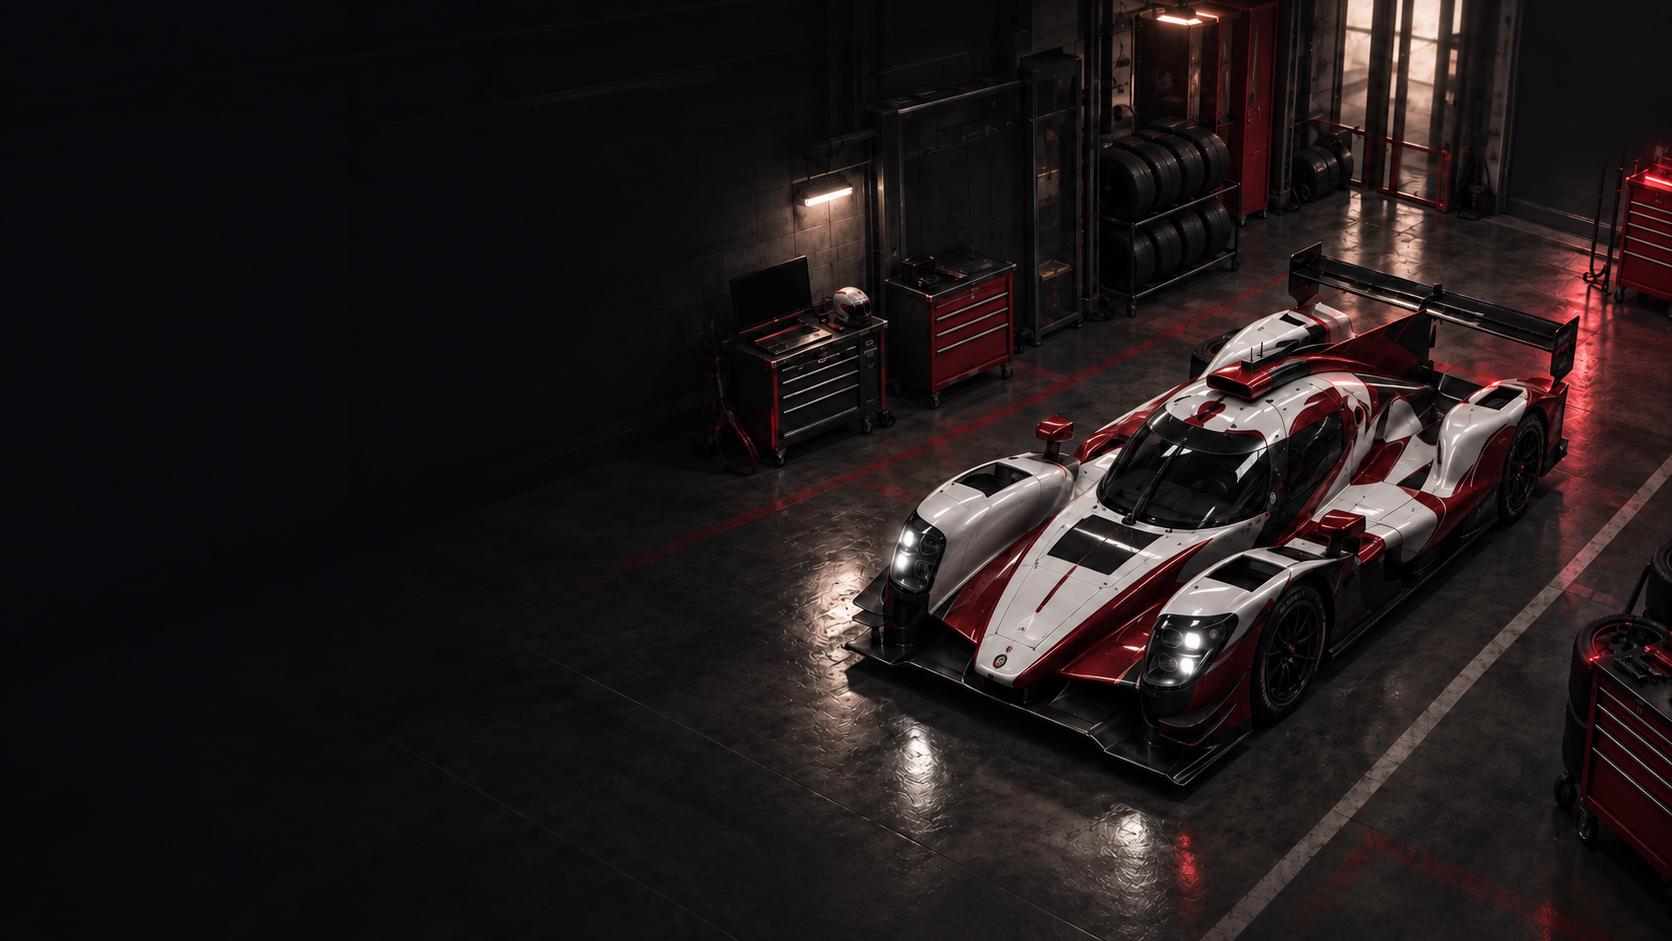
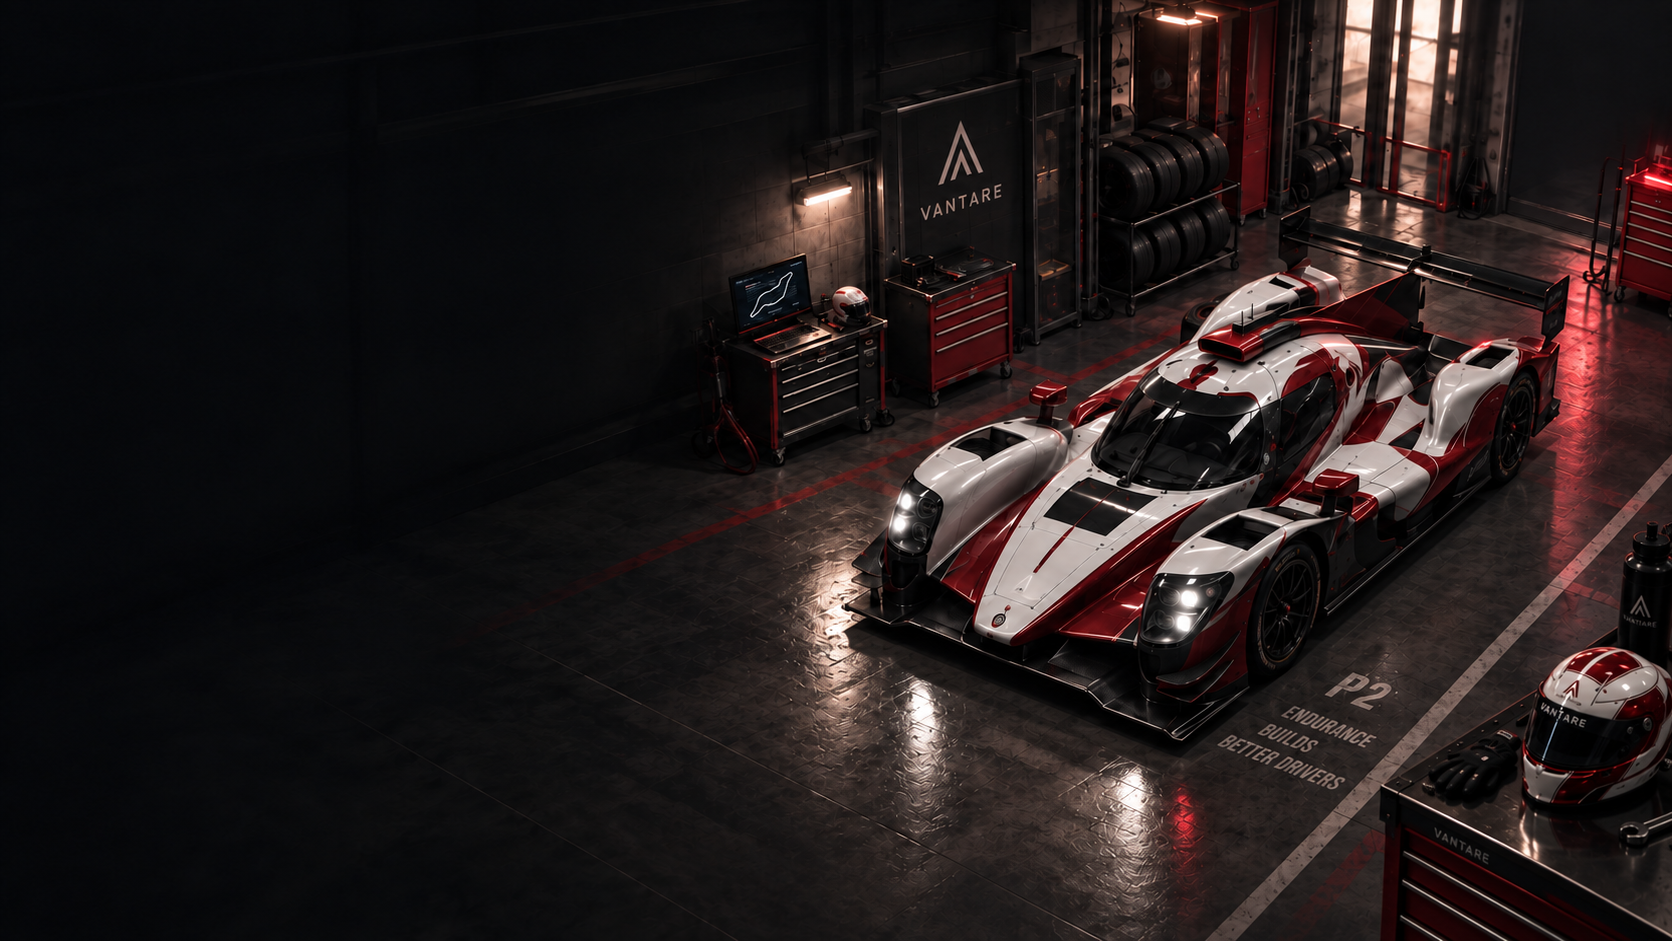
style(strategy): align recorded frame with final A4 artwork (ISA-1093)

diff --git a/vantare-v2/frontend/src/hub/strategy-orbit/strategy-recorded-frame.css b/vantare-v2/frontend/src/hub/strategy-orbit/strategy-recorded-frame.css
@@ -1,4 +1,14 @@
 /* A4 approved composition; all content and state remain React-owned. */
+.orbit-shell:has(.orbit-strategy--recorded) {
+  --orbit-rail-w: 72px;
+  --orbit-column-w: 256px;
+  --orbit-shell-column: 256px;
+}
+.orbit-shell[data-column='closed']:has(.orbit-strategy--recorded) { --orbit-shell-column: 0px; }
+.orbit-shell:has(.orbit-strategy--recorded) .orbit-column__head { min-height: 60px; height: 60px; }
+.orbit-shell:has(.orbit-strategy--recorded) .orbit-column__title { font-size: 12px; }
+.orbit-shell:has(.orbit-strategy--recorded) .orbit-column__version { display: none; }
+
 .orbit-strategy.orbit-strategy--recorded {
   width: 100%;
   margin: 0;
@@ -12,16 +22,18 @@
   min-width: 0;
   min-height: 100%;
   color: var(--orbit-ink);
-  background: var(--orbit-canvas) url('../../assets/strategy-recorded-garage.png') right top / auto 941px no-repeat;
+  background: var(--orbit-canvas) url('../../assets/strategy-recorded-garage.png') right top / auto 900px no-repeat;
 }
 
 .orbit-main:has(.orbit-strategy--recorded) {
-  background: var(--orbit-canvas) url('../../assets/strategy-recorded-garage.png') right top / auto 941px no-repeat;
+  background: var(--orbit-canvas) url('../../assets/strategy-recorded-garage.png') right top / auto 900px no-repeat;
 }
 
 .orbit-main:has(.orbit-strategy--recorded) > .orbit-topbar {
   background: transparent;
   backdrop-filter: none;
+  min-height: 60px;
+  height: 60px;
 }
 
 .orbit-main .strategy-recorded-frame { background: transparent; }

diff --git a/vantare-v2/docs/roadmap/plan.md b/vantare-v2/docs/roadmap/plan.md
@@ -601,7 +601,7 @@ se conservan aqui como hitos cumplidos; los demas siguen pendientes.
 - titulo.en: Recorded telemetry wizard and editor
 - titulo.pt: Assistente e edição de telemetria registada
 - titulo.it: Procedura guidata ed editor della telemetria registrata
-- cuerpo: Dirección visual aceptada: asistente de cinco pasos (Inicio, Combinación, Reglas, Pilotos y Sesiones) y editor A4/Orbit con Carrera, Datos, Plan, Revisiones, stint y parada. Combinación reúne simulador, evento personalizado o calendario Vantare, coche/categoría y circuito. En desarrollo local, Analysis valida y guarda conjuntos de correcciones escalares con historial, conflictos, reintentos y recuperación; los aplica sobre una vista separada y recalcula sus derivaciones conservando originales y calidad. Las proyecciones admiten referencias completas de sesión/base/revisión/snapshot; Analysis deriva desde la revisión guardada exacta y el cliente valida estas referencias. El servicio prepara, guarda, consulta y proyecta correcciones desde una sesión abierta revalidada, con custodia persistente y clasificación recalculada. El cliente nativo valida las respuestas y propaga cancelación sin reintentos automáticos. Documento y cliente conservan revisiones exactas y rechazan proyecciones discordantes; cambiar selección descarta derivados anteriores conservando ajustes. El adaptador autorizado proyecta conjuntamente revisiones exactas de sesiones abiertas. Strategy ya solicita esas revisiones al adaptador y valida su respuesta sin sustituciones. El contrato de cálculo admite reglas explícitas de evento y las conserva al optimizar y revalidar la decisión; el documento y cliente ya conservan reglas con procedencia y versión compatible; falta conectarlas al recorrido visible. La búsqueda del solver reutiliza costes de servicios idénticos dentro de cada cálculo sin reducir alternativas; el caso de regresión de Imola vuelve a completar el cálculo en pruebas locales. El descubrimiento nativo admite hasta 1024 archivos sin confundir exceso de límite con formato incompatible. El panel productivo de Sesiones permite apertura explícita, preparación y selección de revisiones; el recorrido nativo se contrasta con carreras reales conservando sus originales. Faltan el porte visual A4 completo y las operaciones restantes de edición. LMU/DuckDB es el primer adapter; otros simuladores usarán sus formatos. Las fuentes originales permanecen intactas, con copia opcional. Se mantienen resultados parciales, Fuel y energía virtual separados, estimaciones de pilotos y revisiones reproducibles. El inventario inicial cubre 367 archivos; siguen pendientes anotación independiente, calibración de criterios y carreras completas reservadas. El solver ya distingue factibilidad y optimalidad y comprueba recursos, reservas y horizonte temporal; su precisión física y aceptación Wails requieren evidencia real. Live e investigación OSS/Monte Carlo quedan para después de completar el flujo registrado. La entrega se organiza en un SDD integral con tareas dependientes, criterios de aceptación y continuidad entre cortes; sólo las decisiones reales de producto y promociones requieren nueva intervención.
+- cuerpo: Dirección visual aceptada: asistente de cinco pasos (Inicio, Combinación, Reglas, Pilotos y Sesiones) y editor A4/Orbit con Carrera, Datos, Plan, Revisiones, stint y parada. Combinación reúne simulador, evento personalizado o calendario Vantare, coche/categoría y circuito. En desarrollo local, Analysis valida y guarda conjuntos de correcciones escalares con historial, conflictos, reintentos y recuperación; los aplica sobre una vista separada y recalcula sus derivaciones conservando originales y calidad. Las proyecciones admiten referencias completas de sesión/base/revisión/snapshot; Analysis deriva desde la revisión guardada exacta y el cliente valida estas referencias. El servicio prepara, guarda, consulta y proyecta correcciones desde una sesión abierta revalidada, con custodia persistente y clasificación recalculada. El cliente nativo valida las respuestas y propaga cancelación sin reintentos automáticos. Documento y cliente conservan revisiones exactas y rechazan proyecciones discordantes; cambiar selección descarta derivados anteriores conservando ajustes. El adaptador autorizado proyecta conjuntamente revisiones exactas de sesiones abiertas. Strategy ya solicita esas revisiones al adaptador y valida su respuesta sin sustituciones. El contrato de cálculo admite reglas explícitas de evento y las conserva al optimizar y revalidar la decisión; el documento y cliente ya conservan reglas con procedencia y versión compatible; falta conectarlas al recorrido visible. La búsqueda del solver reutiliza costes de servicios idénticos dentro de cada cálculo sin reducir alternativas; el caso de regresión de Imola vuelve a completar el cálculo en pruebas locales. El descubrimiento nativo admite hasta 1024 archivos sin confundir exceso de límite con formato incompatible. El panel productivo de Sesiones permite apertura explícita, preparación y selección de revisiones; el recorrido nativo se contrasta con carreras reales conservando sus originales. El asistente productivo empieza a incorporar el marco A4 y el fondo aprobado; faltan el recorrido completo de cinco pasos y las operaciones restantes de edición. LMU/DuckDB es el primer adapter; otros simuladores usarán sus formatos. Las fuentes originales permanecen intactas, con copia opcional. Se mantienen resultados parciales, Fuel y energía virtual separados, estimaciones de pilotos y revisiones reproducibles. El inventario inicial cubre 367 archivos; siguen pendientes anotación independiente, calibración de criterios y carreras completas reservadas. El solver ya distingue factibilidad y optimalidad y comprueba recursos, reservas y horizonte temporal; su precisión física y aceptación Wails requieren evidencia real. Live e investigación OSS/Monte Carlo quedan para después de completar el flujo registrado. La entrega se organiza en un SDD integral con tareas dependientes, criterios de aceptación y continuidad entre cortes; sólo las decisiones reales de producto y promociones requieren nueva intervención.
 - cuerpo.en: Visual direction accepted: a five-step wizard (Start, Combination, Rules, Drivers and Sessions) and A4/Orbit editor with Race, Data, Plan, Revisions, stint and pit-stop details. Combination includes simulator, custom event or Vantare calendar, car/category and track. Local development now validates, stores and applies scalar correction sets with history, conflicts, retries and recovery, then recomputes derivatives while preserving original files and quality. Projections support complete session/base/revision/snapshot references; Analysis derives from an exact stored revision and the client validates its references. The service prepares, saves, loads and projects corrections from a revalidated open session, with persistent custody and recomputed classification. The native client validates responses and propagates cancellation without automatic retries. Document and client preserve exact revisions and reject mismatched projections; selection changes discard prior derivatives while preserving overrides. An authorized adapter jointly projects exact revisions of open sessions. Strategy now requests those revisions through the adapter and validates its response without substitutions. The calculation contract accepts explicit event rules and preserves them through optimization and final validation; document and client now preserve sourced rules with compatible versioning; connection to the visible workflow remains pending. The solver reuses identical service costs within each calculation without reducing alternatives; the Imola regression completes in local tests. Native discovery supports up to 1024 files and distinguishes limit overflow from incompatible format. The production Sessions panel supports explicit opening, preparation and revision selection; the native path is checked against real races with original files preserved. The complete A4 visual port and remaining editing operations are pending. LMU/DuckDB is the first adapter; future simulators use their own formats. Original files stay unchanged, with an optional copy. Partial results, separate Fuel/Virtual Energy, driver estimates and reproducible revisions remain required. The 367-file inventory still needs independent annotation, criteria calibration and held-out complete races. The solver checks feasibility, optimality, resources, reserves and race horizon; physical accuracy and Wails acceptance still require real evidence. Live and OSS/Monte Carlo research follow the recorded workflow. Delivery follows an integrated SDD with dependent tasks, acceptance criteria and continuous execution between slices; only actual product decisions and promotions require further intervention.
 - cuerpo.pt: Visão visual aprovada: assistente de cinco passos (Início, Combinação, Regras, Pilotos e Sessões) e editor A4/Orbit com Corrida, Dados, Plano, Revisões, stint e paragem. Combinação reúne simulador, evento personalizado ou calendário Vantare, carro/categoria e circuito. O desenvolvimento local valida, guarda e aplica correções escalares com histórico, conflitos, repetição e recuperação, recalculando derivados sem alterar originais ou qualidade. As projeções aceitam referências completas de sessão/base/revisão/snapshot; Analysis deriva a revisão guardada exata e o cliente valida as referências. O serviço prepara, guarda, consulta e projeta correções de uma sessão aberta revalidada, com custódia persistente e classificação recalculada. O cliente nativo valida respostas e propaga cancelamento sem repetições automáticas. Documento e cliente conservam revisões exatas e rejeitam projeções divergentes; alterar a seleção descarta derivados anteriores preservando ajustes. O adaptador autorizado projeta em conjunto revisões exatas de sessões abertas. Strategy já solicita essas revisões ao adaptador e valida a resposta sem substituições. O contrato de cálculo aceita regras explícitas do evento e mantém-nas na otimização e validação final; documento e cliente já preservam regras com origem e versão compatível; falta ligá-las ao percurso visível. O solver reutiliza custos de serviços idênticos em cada cálculo sem reduzir alternativas; a regressão de Imola conclui nos testes locais. A descoberta nativa admite até 1024 ficheiros e distingue excesso de limite de formato incompatível. O painel produtivo de Sessões permite abertura explícita, preparação e seleção de revisões; o percurso nativo é verificado com corridas reais preservando os originais. Faltam o porte visual A4 completo e as restantes operações de edição. LMU/DuckDB é o primeiro adapter; outros simuladores terão formatos próprios. Originais intactos e cópia opcional; resultados parciais, Fuel/energia virtual separados, estimativas entre pilotos e revisões reproduzíveis. O inventário de 367 ficheiros aguarda anotação independente, calibração e corridas completas reservadas. O solver verifica viabilidade, optimalidade, recursos, reservas e horizonte; precisão física e aceitação Wails exigem evidência real. Live e pesquisa OSS/Monte Carlo ficam para depois. A entrega segue um SDD integral com tarefas dependentes, critérios de aceitação e execução contínua entre etapas; só decisões reais de produto e promoções exigem nova intervenção.
 - cuerpo.it: Direzione visiva approvata: procedura in cinque passaggi (Inizio, Combinazione, Regole, Piloti e Sessioni) ed editor A4/Orbit con Gara, Dati, Piano, Revisioni, stint e sosta. Combinazione riunisce simulatore, evento personalizzato o calendario Vantare, auto/categoria e circuito. Lo sviluppo locale valida, conserva e applica correzioni scalari con cronologia, conflitti, ripetizioni e recupero, ricalcolando i derivati senza modificare originali o qualità. Le proiezioni supportano riferimenti completi di sessione/base/revisione/snapshot; Analysis deriva la revisione salvata esatta e il client valida i riferimenti. Il servizio prepara, salva, consulta e proietta correzioni di una sessione aperta rivalidata, con custodia persistente e classificazione ricalcolata. Il client nativo valida le risposte e propaga la cancellazione senza tentativi automatici. Documento e client conservano revisioni esatte e rifiutano proiezioni discordanti; cambiare selezione elimina i derivati precedenti mantenendo le impostazioni. Un adattatore autorizzato proietta insieme revisioni esatte di sessioni aperte. Strategy richiede ora tali revisioni tramite adattatore e verifica la risposta senza sostituzioni. Il contratto di calcolo accetta regole esplicite dell’evento e le conserva nell’ottimizzazione e validazione finale; documento e client conservano già regole con provenienza e versione compatibile; resta da collegarle al percorso visibile. Il solver riutilizza costi di servizi identici in ogni calcolo senza ridurre le alternative; la regressione di Imola termina nei test locali. La ricerca nativa supporta fino a 1024 file e distingue il superamento del limite da un formato incompatibile. Il pannello Sessioni consente apertura esplicita, preparazione e selezione delle revisioni; il percorso nativo viene verificato con gare reali conservando gli originali. Restano il porting visivo A4 completo e le altre operazioni di modifica. LMU/DuckDB è il primo adapter; altri simulatori avranno formati propri. Originali intatti e copia facoltativa; risultati parziali, Fuel/energia virtuale separati, stime tra piloti e revisioni riproducibili. L’inventario di 367 file richiede annotazione indipendente, calibrazione e gare complete riservate. Il solver verifica fattibilità, ottimalità, risorse, riserve e orizzonte; precisione fisica e accettazione Wails richiedono prove reali. Live e ricerca OSS/Monte Carlo seguiranno il flusso registrato. La consegna segue un SDD integrato con attività dipendenti, criteri di accettazione ed esecuzione continua; solo decisioni reali di prodotto e promozioni richiedono un nuovo intervento.

diff --git a/vantare-v2/docs/strategy-planner/evidence/isa-1093/README.md b/vantare-v2/docs/strategy-planner/evidence/isa-1093/README.md
@@ -37,3 +37,15 @@ Revisión propia: marco presente, pero arte de fondo no es la revisión final,
 columna/rail más anchos y textos/pasos antiguos. No supera gate A4. Sigue T04c
 (arte final garage-journey-v2 y dimensiones acotadas) y T05 (recorrido real cinco
 pasos). No solicitar review humana todavía. Full suite posterior pendiente.
+
+## T04c — referencia final y dimensiones
+
+El prototipo tiene overrides posteriores: arte final garage-journey-v2.png,
+fondo a900px, rail72 y columna256. Se aplican sólo al asistente y se conserva
+columna plegable. frame-02.png usa animación/transiciones desactivadas para una
+captura estable: CSS grid72/256/1344, zoom1, documento1672x941 sin overflow,
+sin pageerror. No es paridad final: quedan cinco pasos, contenido, contexto y
+footer transversal. No se usa la imagen como prueba del motor.
+
+T04a full frontend421 archivos/3322 tests PASS; T04b prueba nueva RED/GREEN y
+typecheck/lint focal PASS. Suite completa posterior a b/c pendiente.
